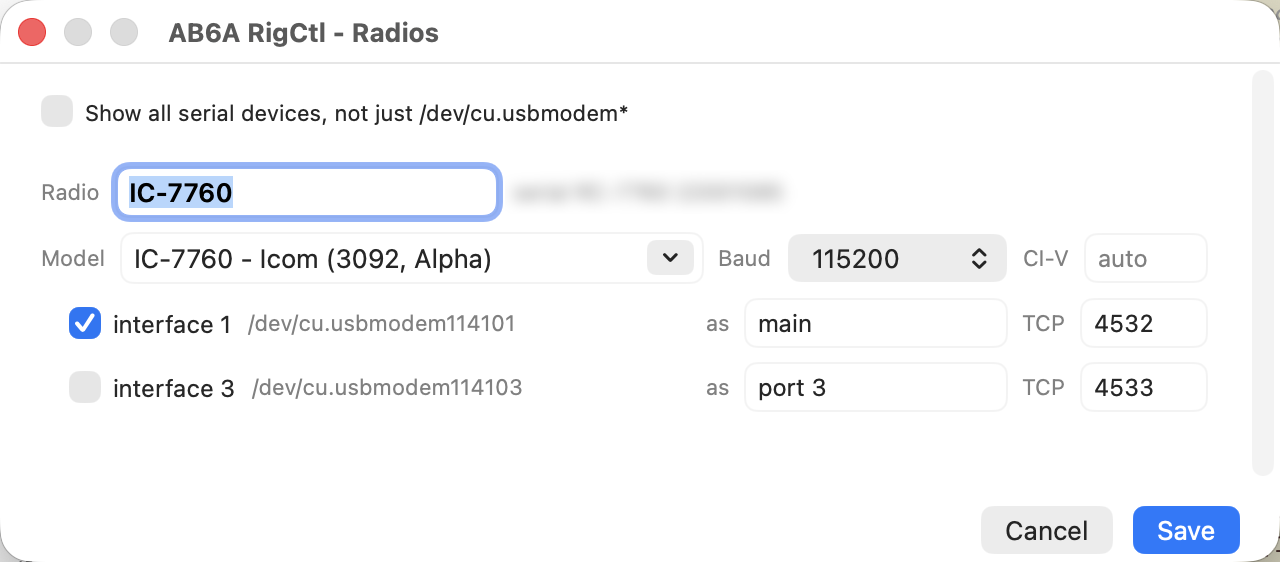
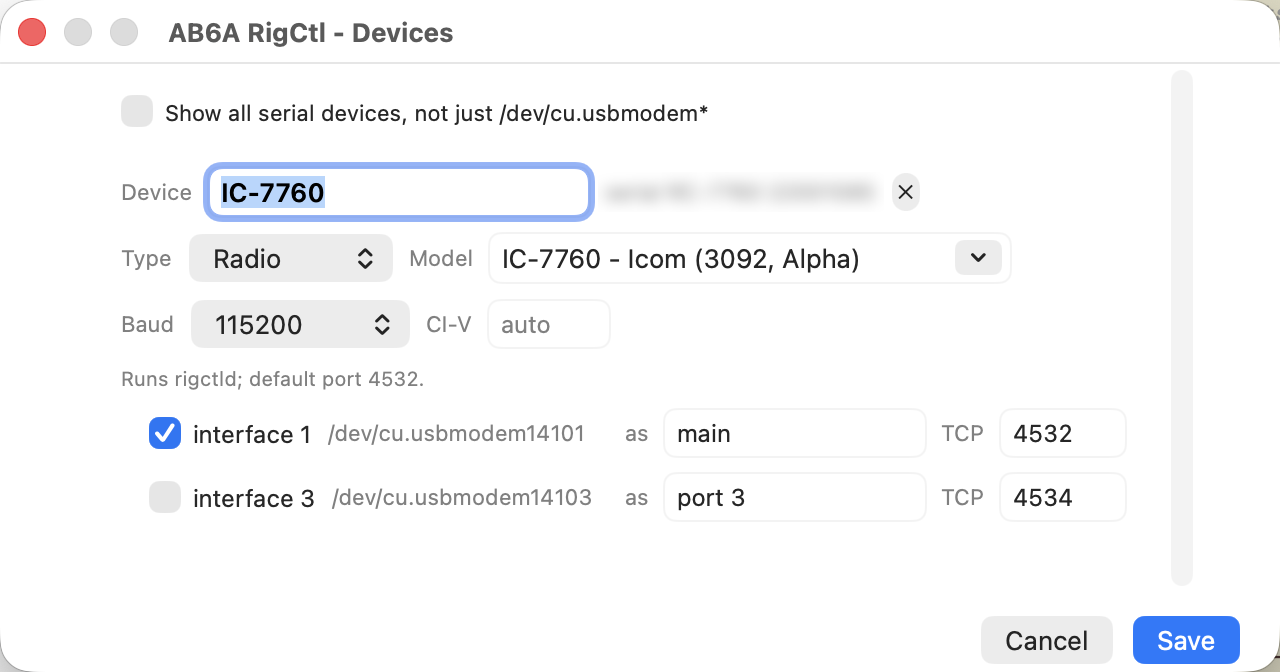
Refresh the screenshots
Both published images were stale: the menu still showed "Configure radios…" and
the window was titled "AB6A RigCtl - Radios", from before rotators and
amplifiers existed. Recaptured with the current build, showing the Type picker,
the x remove control, and the "Runs rigctld; default port 4532" hint.

The worked example said to point a logger at 4533. The second daemon is now
offered 4534, because 4533 is rotctld's default and is held for a rotator;
the prose says so.

The radio's serial number is blurred; device paths and ports are plain.

Claude-Session: https://claude.ai/code/session_01JBrUeBQkPmRABKaMhT9zgK

diff --git a/docs/index.html b/docs/index.html
@@ -211,8 +211,10 @@ interface 3   class 10   CDC-Data  <span class="a">&rarr;</span>  /dev/cu.usbmod
 
     <p style="color:var(--muted);font-size:15px;margin:18px 0 0">
       Point WSJT-X at <code style="color:var(--accent)">localhost:4532</code> and your logger at
-      <code style="color:var(--accent)">localhost:4533</code>, both as
-      <em style="font-style:normal;color:var(--ink)">Hamlib NET rigctl</em>. The radio is
+      <code style="color:var(--accent)">localhost:4534</code>, both as
+      <em style="font-style:normal;color:var(--ink)">Hamlib NET rigctl</em>. The second daemon is
+        offered 4534 rather than 4533, because 4533 is <code>rotctld</code>'s default and is
+        held for a rotator. The radio is
       identified from its own USB descriptor, so model 3092 is filled in for you — Hamlib
       never probes the rig.
     </p>

diff --git a/README.md b/README.md
@@ -68,17 +68,7 @@ dependencies beyond Hamlib.
 
 Click the menu bar icon:
 
-```
-IC-7760            Icom IC-7760
-   ● main            port 4532
-        14.321.000 MHz  PKTUSB
-   ○ second          port 4533
-────────────────────────────────
-Configure…
-────────────────────────────────
-Start all connected
-Stop all
-```
+<img src="docs/config.png" width="620" alt="The Devices window: an IC-7760 with its type, model, baud and each interface assignable to a TCP port">
 
 Each daemon has a toggle. **Configure…** is where you name a device, pick its type,
 its Hamlib model, baud rate and CI-V address, choose which of its interfaces
